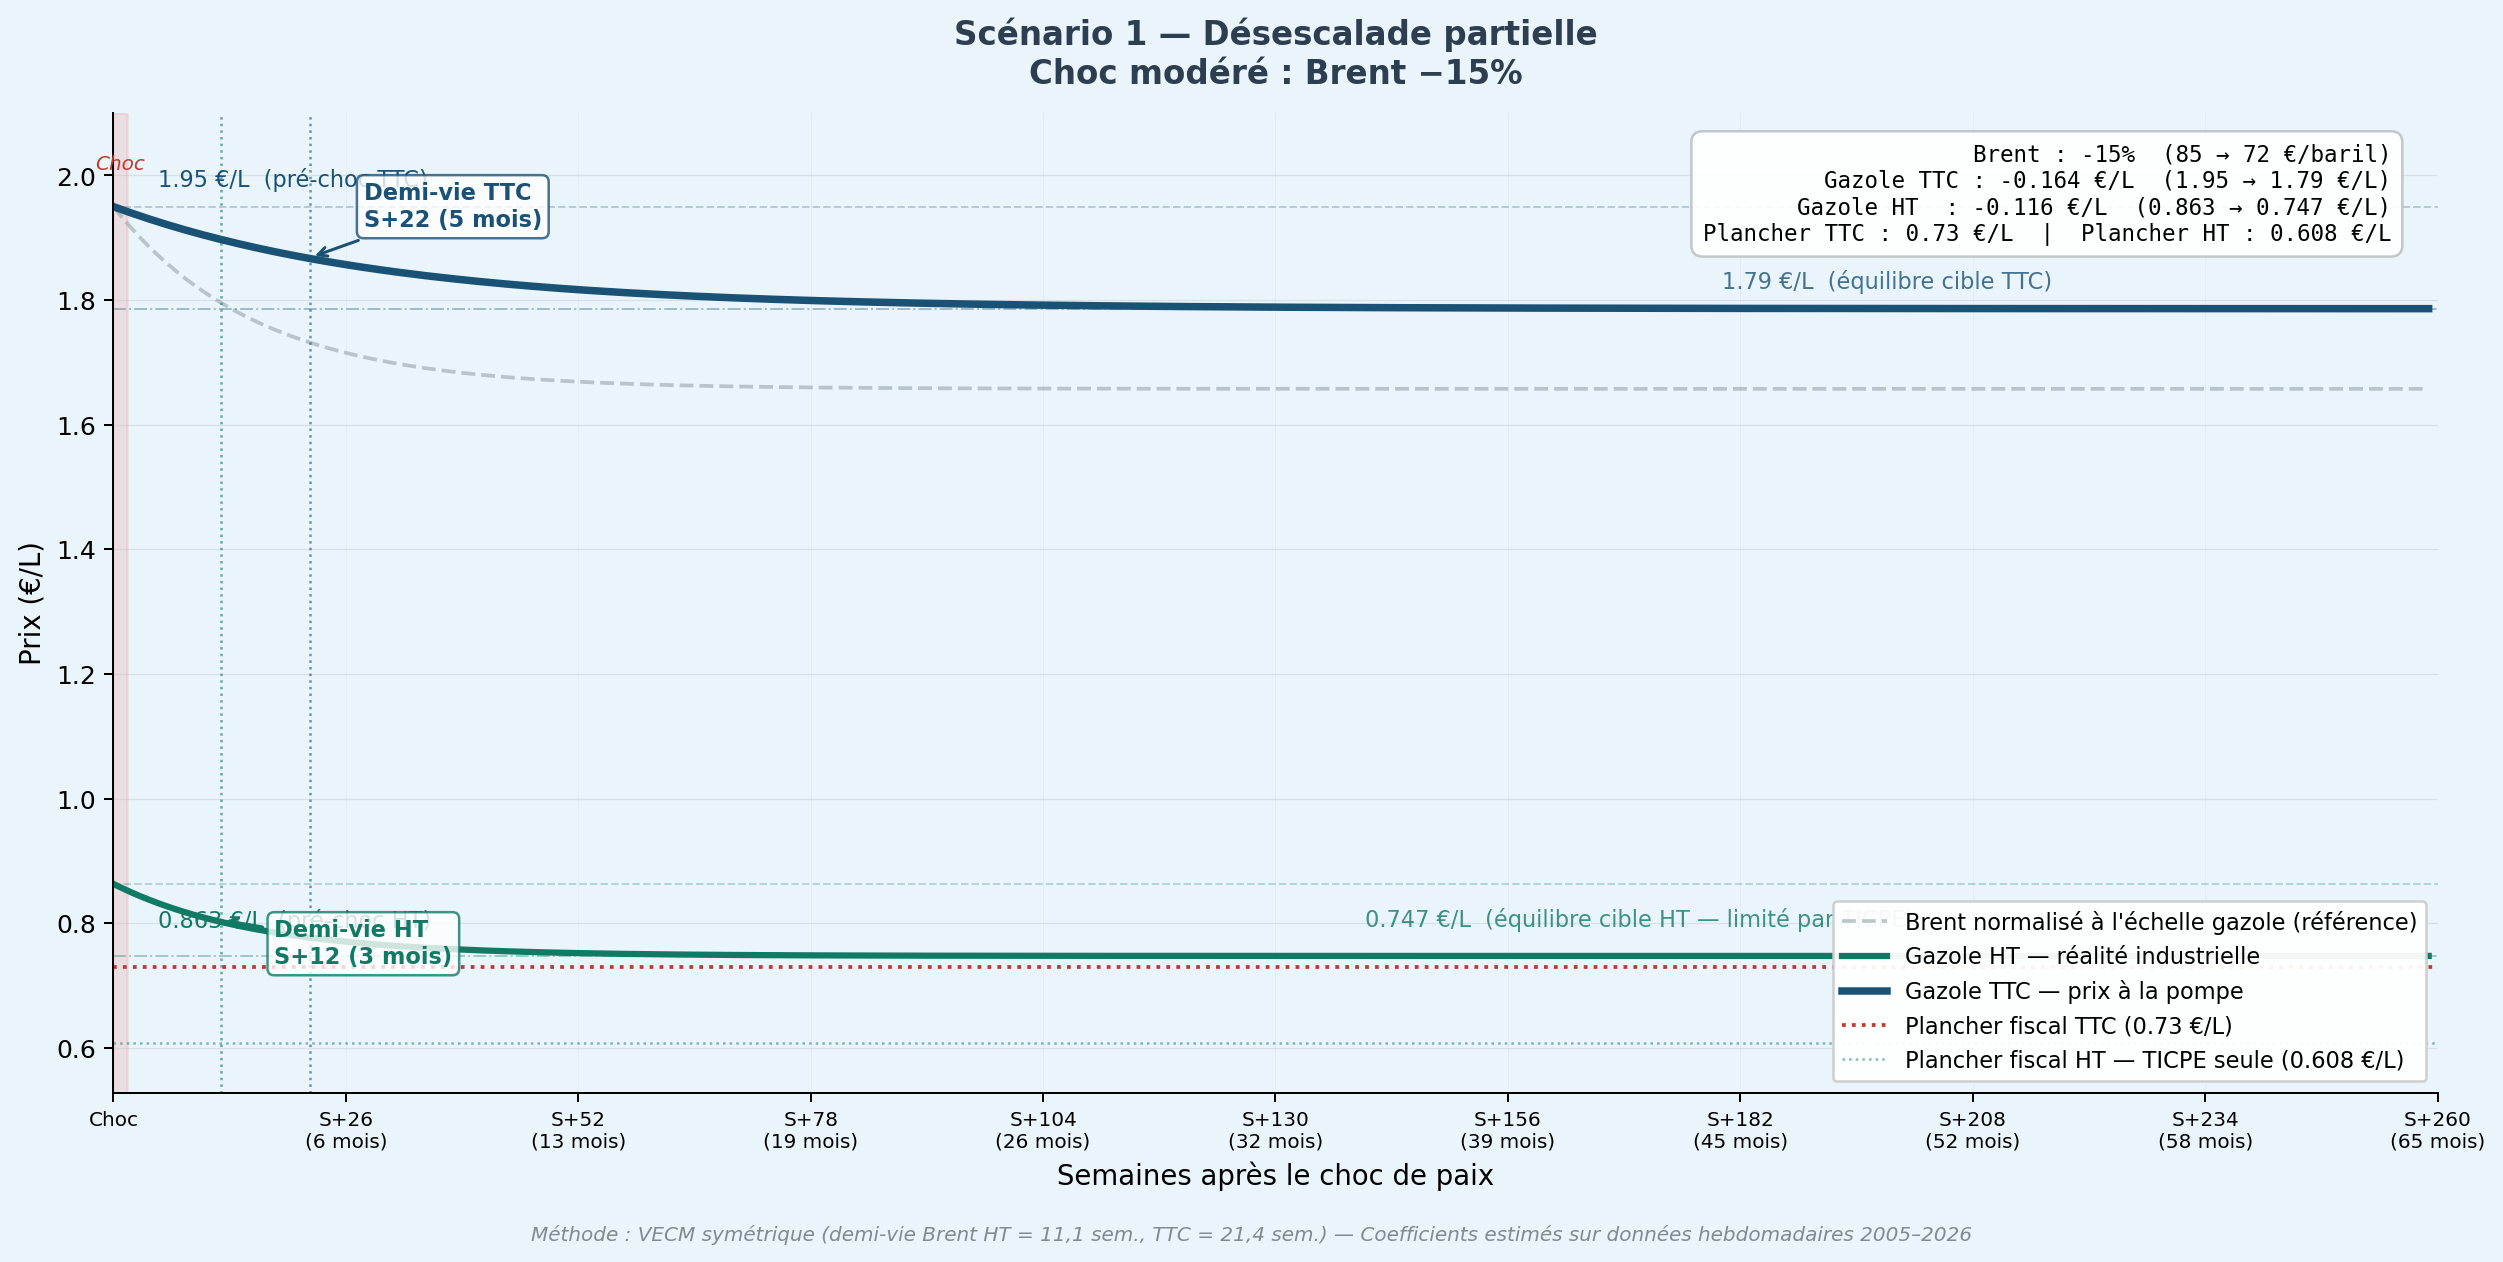
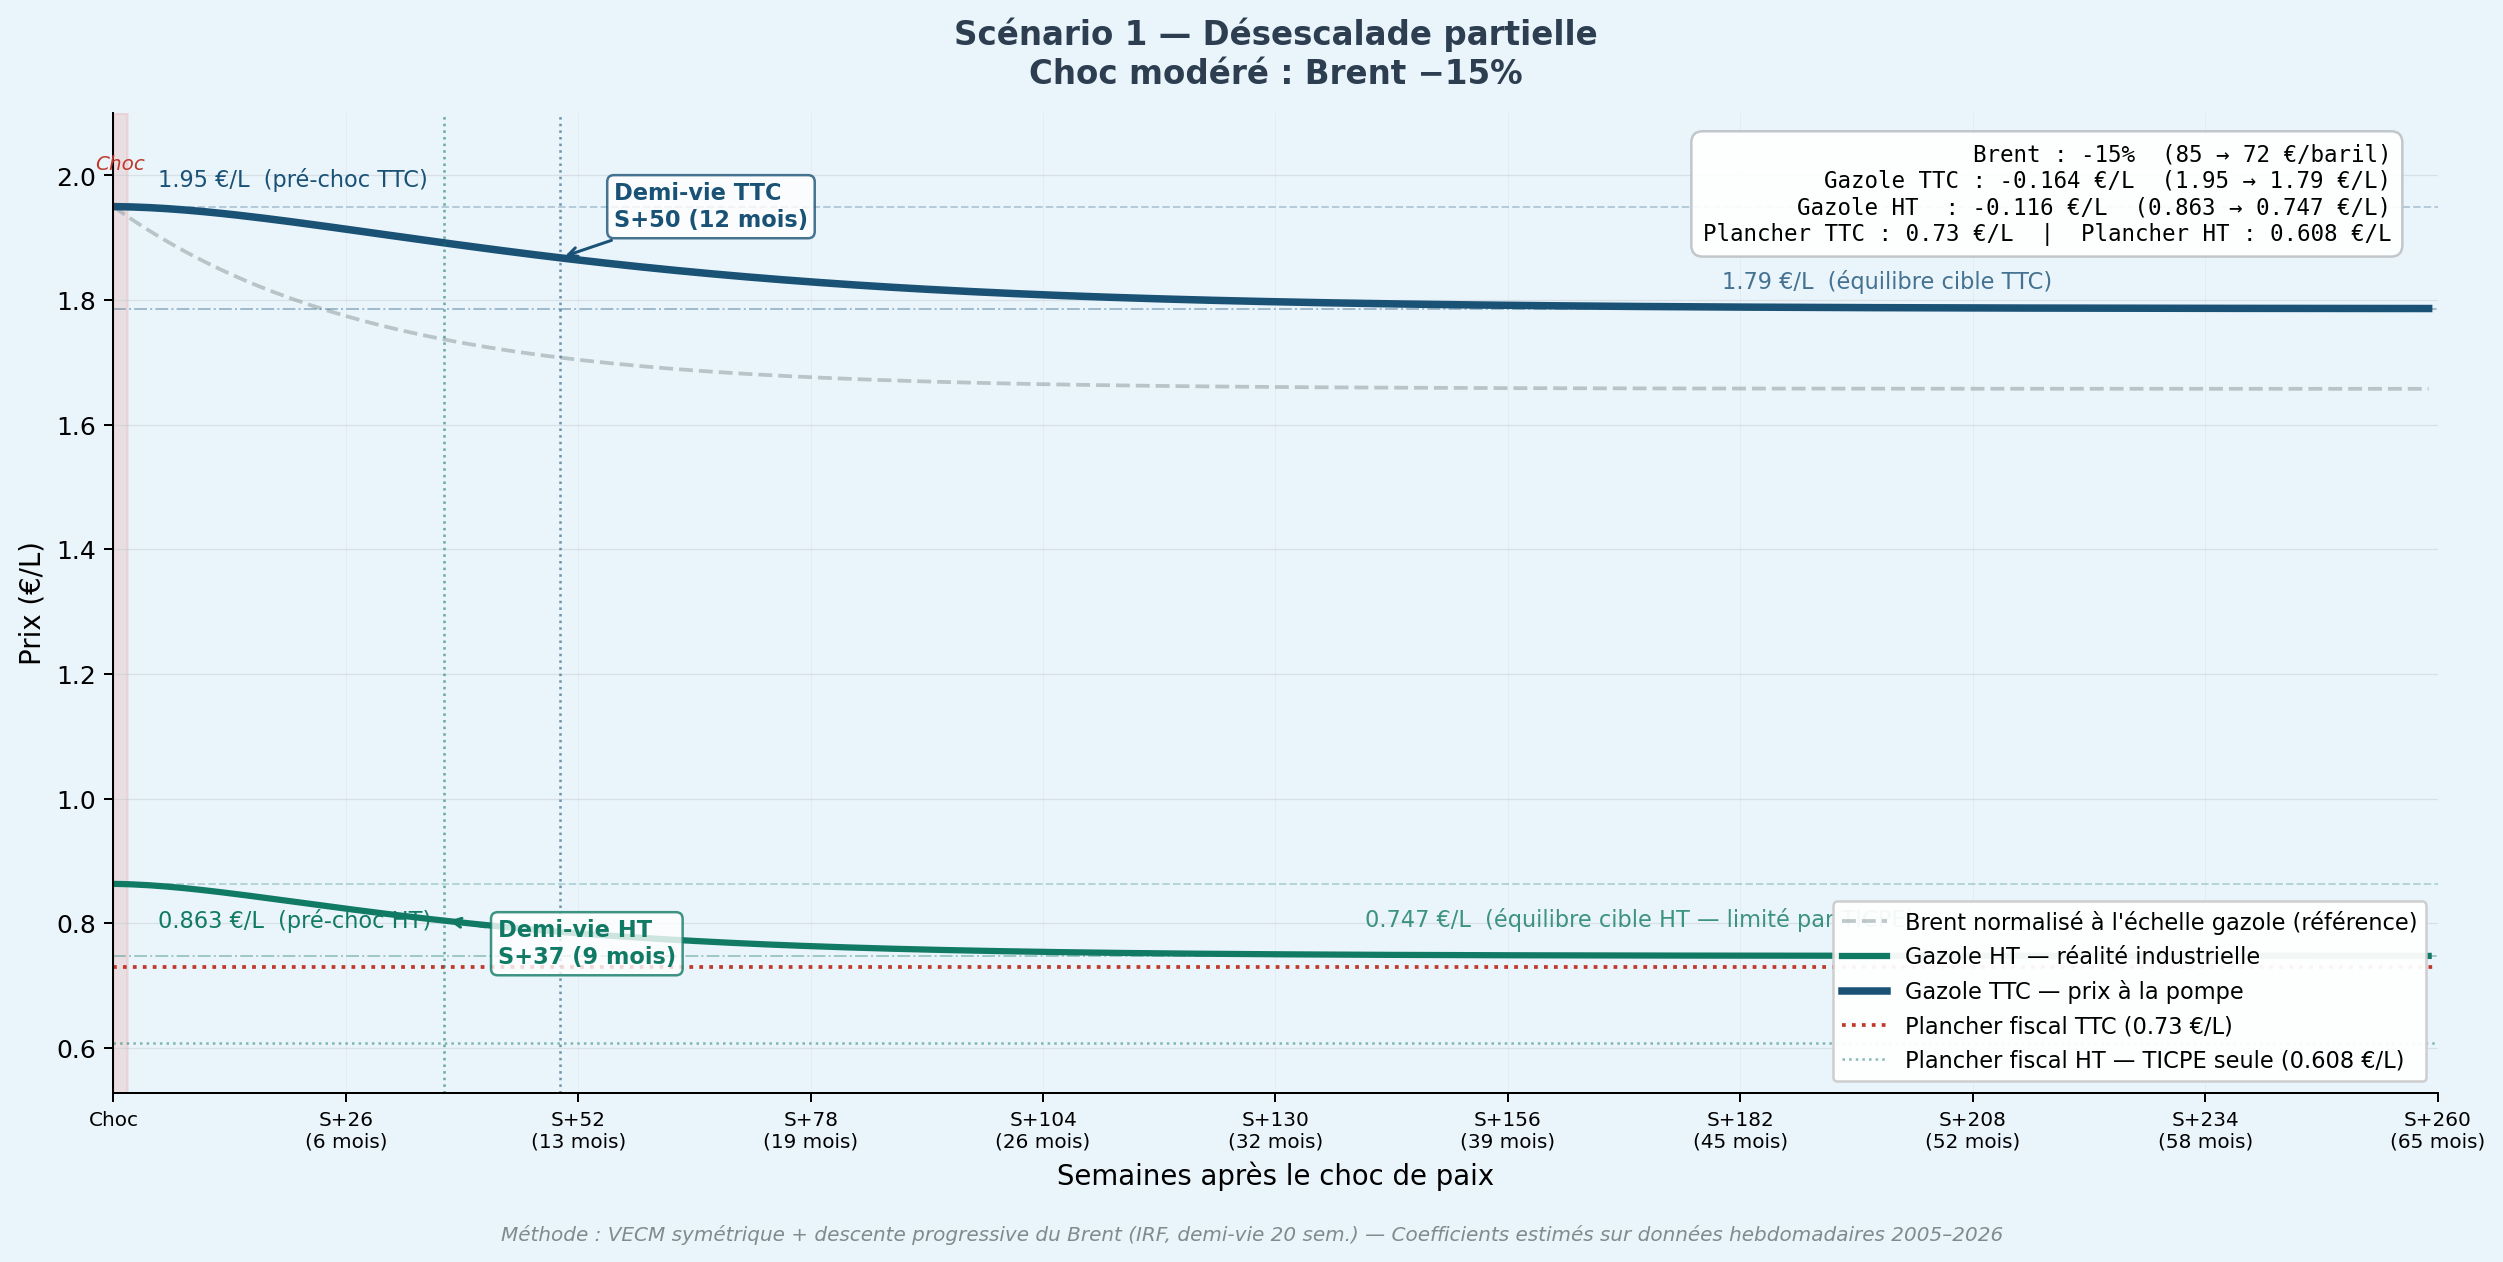
fin ms4

diff --git a/simulation_choc_paix.py b/simulation_choc_paix.py
@@ -20,6 +20,8 @@ import matplotlib.pyplot as plt
 # Coefficients VECM symétrique (Annexe 4) — vitesse de convergence vers nouvel équilibre
 ALPHA_BRENT_HT  = 0.0604   # demi-vie 11,1 semaines
 ALPHA_BRENT_TTC = 0.0318   # demi-vie 21,4 semaines
+ALPHA_BRENT_DESCENT = np.log(2) / 20  # demi-vie 20 semaines (~5 mois) — tiré de l'auto-IRF du Brent
+
 
 # Élasticités de long terme (Annexe 3 / Johansen)
 ELAS_HT  = 0.885
@@ -62,24 +64,27 @@ def simuler_trajectoire(choc_pct, n_semaines=N_SEMAINES):
     gaz_ht[0]  = PRIX_GAZOLE_HT_INIT
     gaz_ttc[0] = PRIX_GAZOLE_TTC_INIT
 
-    # Cibles d'équilibre de long terme via élasticité
-    ratio = brent_cible / brent_init
-    gaz_ht_cible  = max(PRIX_GAZOLE_HT_INIT  * (ratio ** ELAS_HT),  PLANCHER_HT)
-    gaz_ttc_cible = max(PRIX_GAZOLE_TTC_INIT * (ratio ** ELAS_TTC), PLANCHER_TTC)
+    # Cibles finales (pour les annotations)
+    ratio_final   = brent_cible / brent_init
+    gaz_ht_cible  = max(PRIX_GAZOLE_HT_INIT  * (ratio_final ** ELAS_HT),  PLANCHER_HT)
+    gaz_ttc_cible = max(PRIX_GAZOLE_TTC_INIT * (ratio_final ** ELAS_TTC), PLANCHER_TTC)
 
     for t in range(n_semaines - 1):
-        # Brent converge exponentiellement vers sa nouvelle cible (VECM HT)
-        brent[t+1] = brent_cible + (brent[t] - brent_cible) * (1 - ALPHA_BRENT_HT)
+        # Brent descend progressivement (demi-vie 20 sem. — IRF)
+        brent[t+1] = brent_cible + (brent[t] - brent_cible) * (1 - ALPHA_BRENT_DESCENT)
 
-        # Gazole HT suit avec inertie propre (même vitesse que Brent HT)
+        # Cible instantanée du gazole = fonction du Brent courant
+        ratio_t = brent[t+1] / brent_init
+        gaz_ht_cible_t  = max(PRIX_GAZOLE_HT_INIT  * (ratio_t ** ELAS_HT),  PLANCHER_HT)
+        gaz_ttc_cible_t = max(PRIX_GAZOLE_TTC_INIT * (ratio_t ** ELAS_TTC), PLANCHER_TTC)
+
+        # Le gazole converge vers cette cible mouvante
         gaz_ht[t+1] = max(
-            gaz_ht_cible + (gaz_ht[t] - gaz_ht_cible) * (1 - ALPHA_BRENT_HT),
+            gaz_ht_cible_t  + (gaz_ht[t]  - gaz_ht_cible_t)  * (1 - ALPHA_BRENT_HT),
             PLANCHER_HT
         )
-
-        # Gazole TTC plus lent à cause du filtre fiscal (VECM TTC)
         gaz_ttc[t+1] = max(
-            gaz_ttc_cible + (gaz_ttc[t] - gaz_ttc_cible) * (1 - ALPHA_BRENT_TTC),
+            gaz_ttc_cible_t + (gaz_ttc[t] - gaz_ttc_cible_t) * (1 - ALPHA_BRENT_TTC),
             PLANCHER_TTC
         )
 
@@ -231,8 +236,9 @@ for sc in SCENARIOS:
         fontsize=13, fontweight="bold", pad=12, color="#2c3e50"
     )
     fig.text(0.5, 0.01,
-             "Méthode : VECM symétrique (demi-vie Brent HT = 11,1 sem., TTC = 21,4 sem.) — Coefficients estimés sur données hebdomadaires 2005–2026",
-             ha="center", fontsize=8, color="#7f8c8d", style="italic")
+            "Méthode : VECM symétrique + descente progressive du Brent (IRF, demi-vie 20 sem.) "
+            "— Coefficients estimés sur données hebdomadaires 2005–2026",
+            ha="center", fontsize=8, color="#7f8c8d", style="italic")
 
     plt.tight_layout(rect=[0, 0.03, 1, 1])
 
